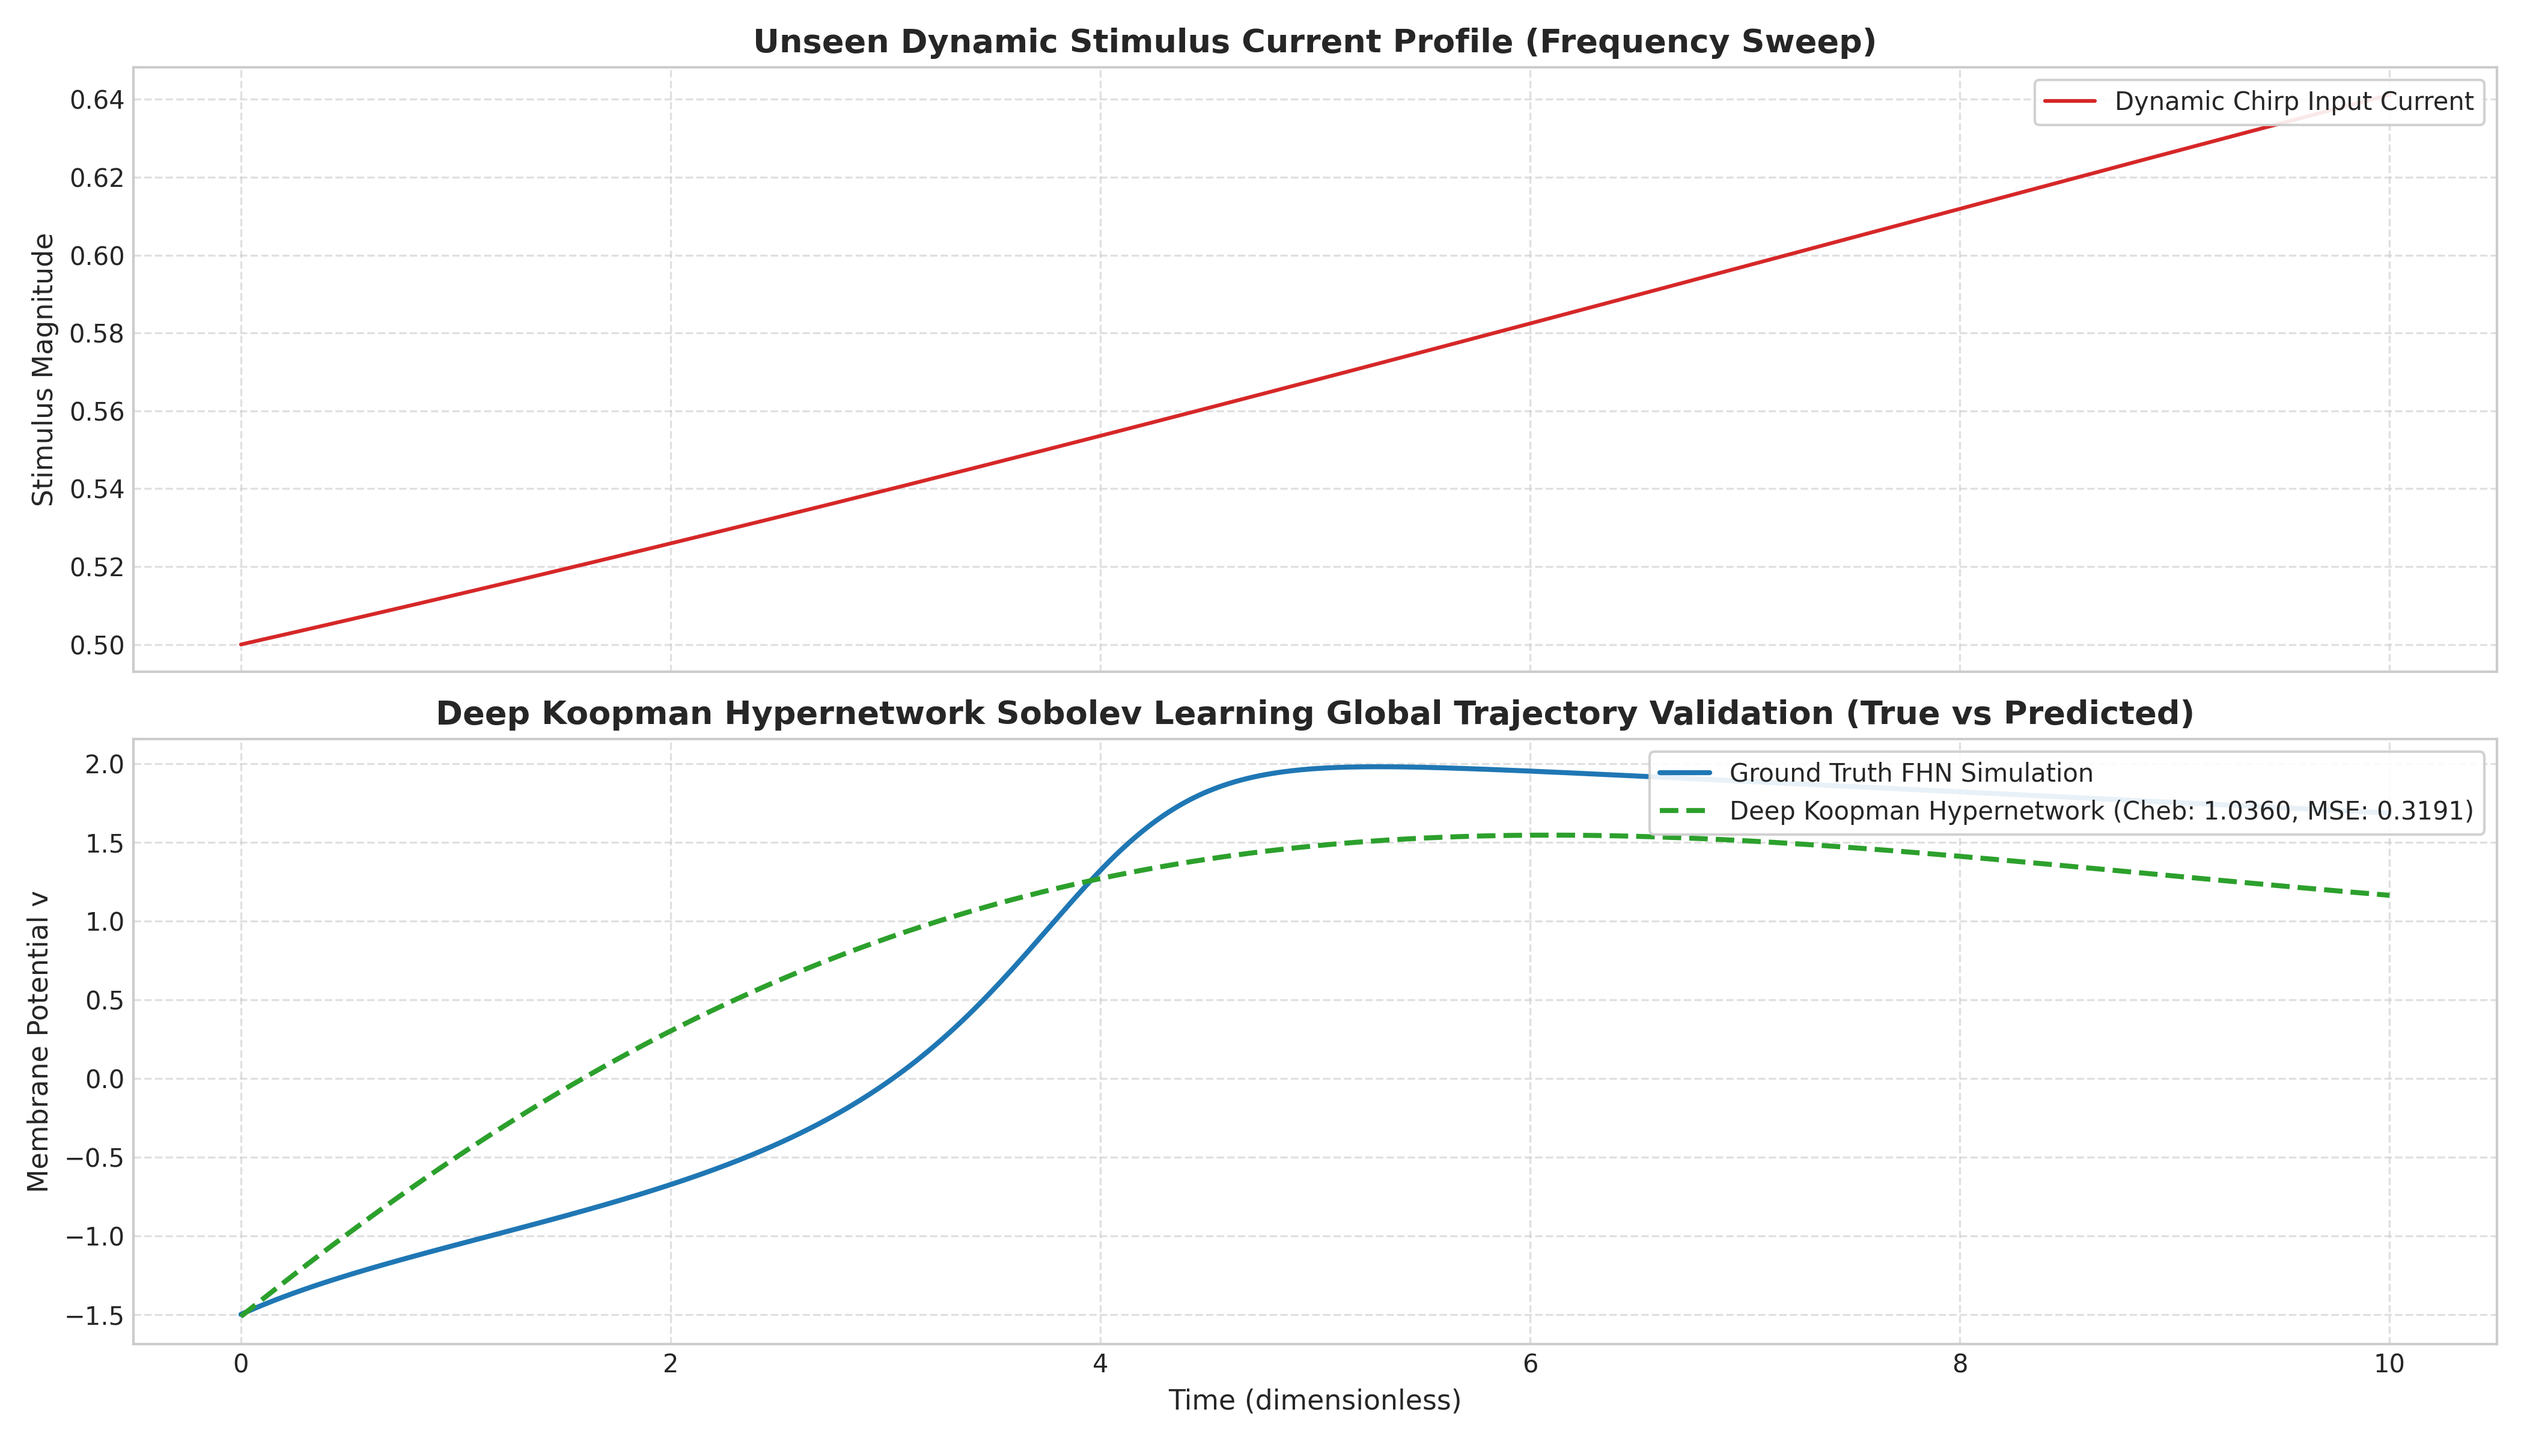
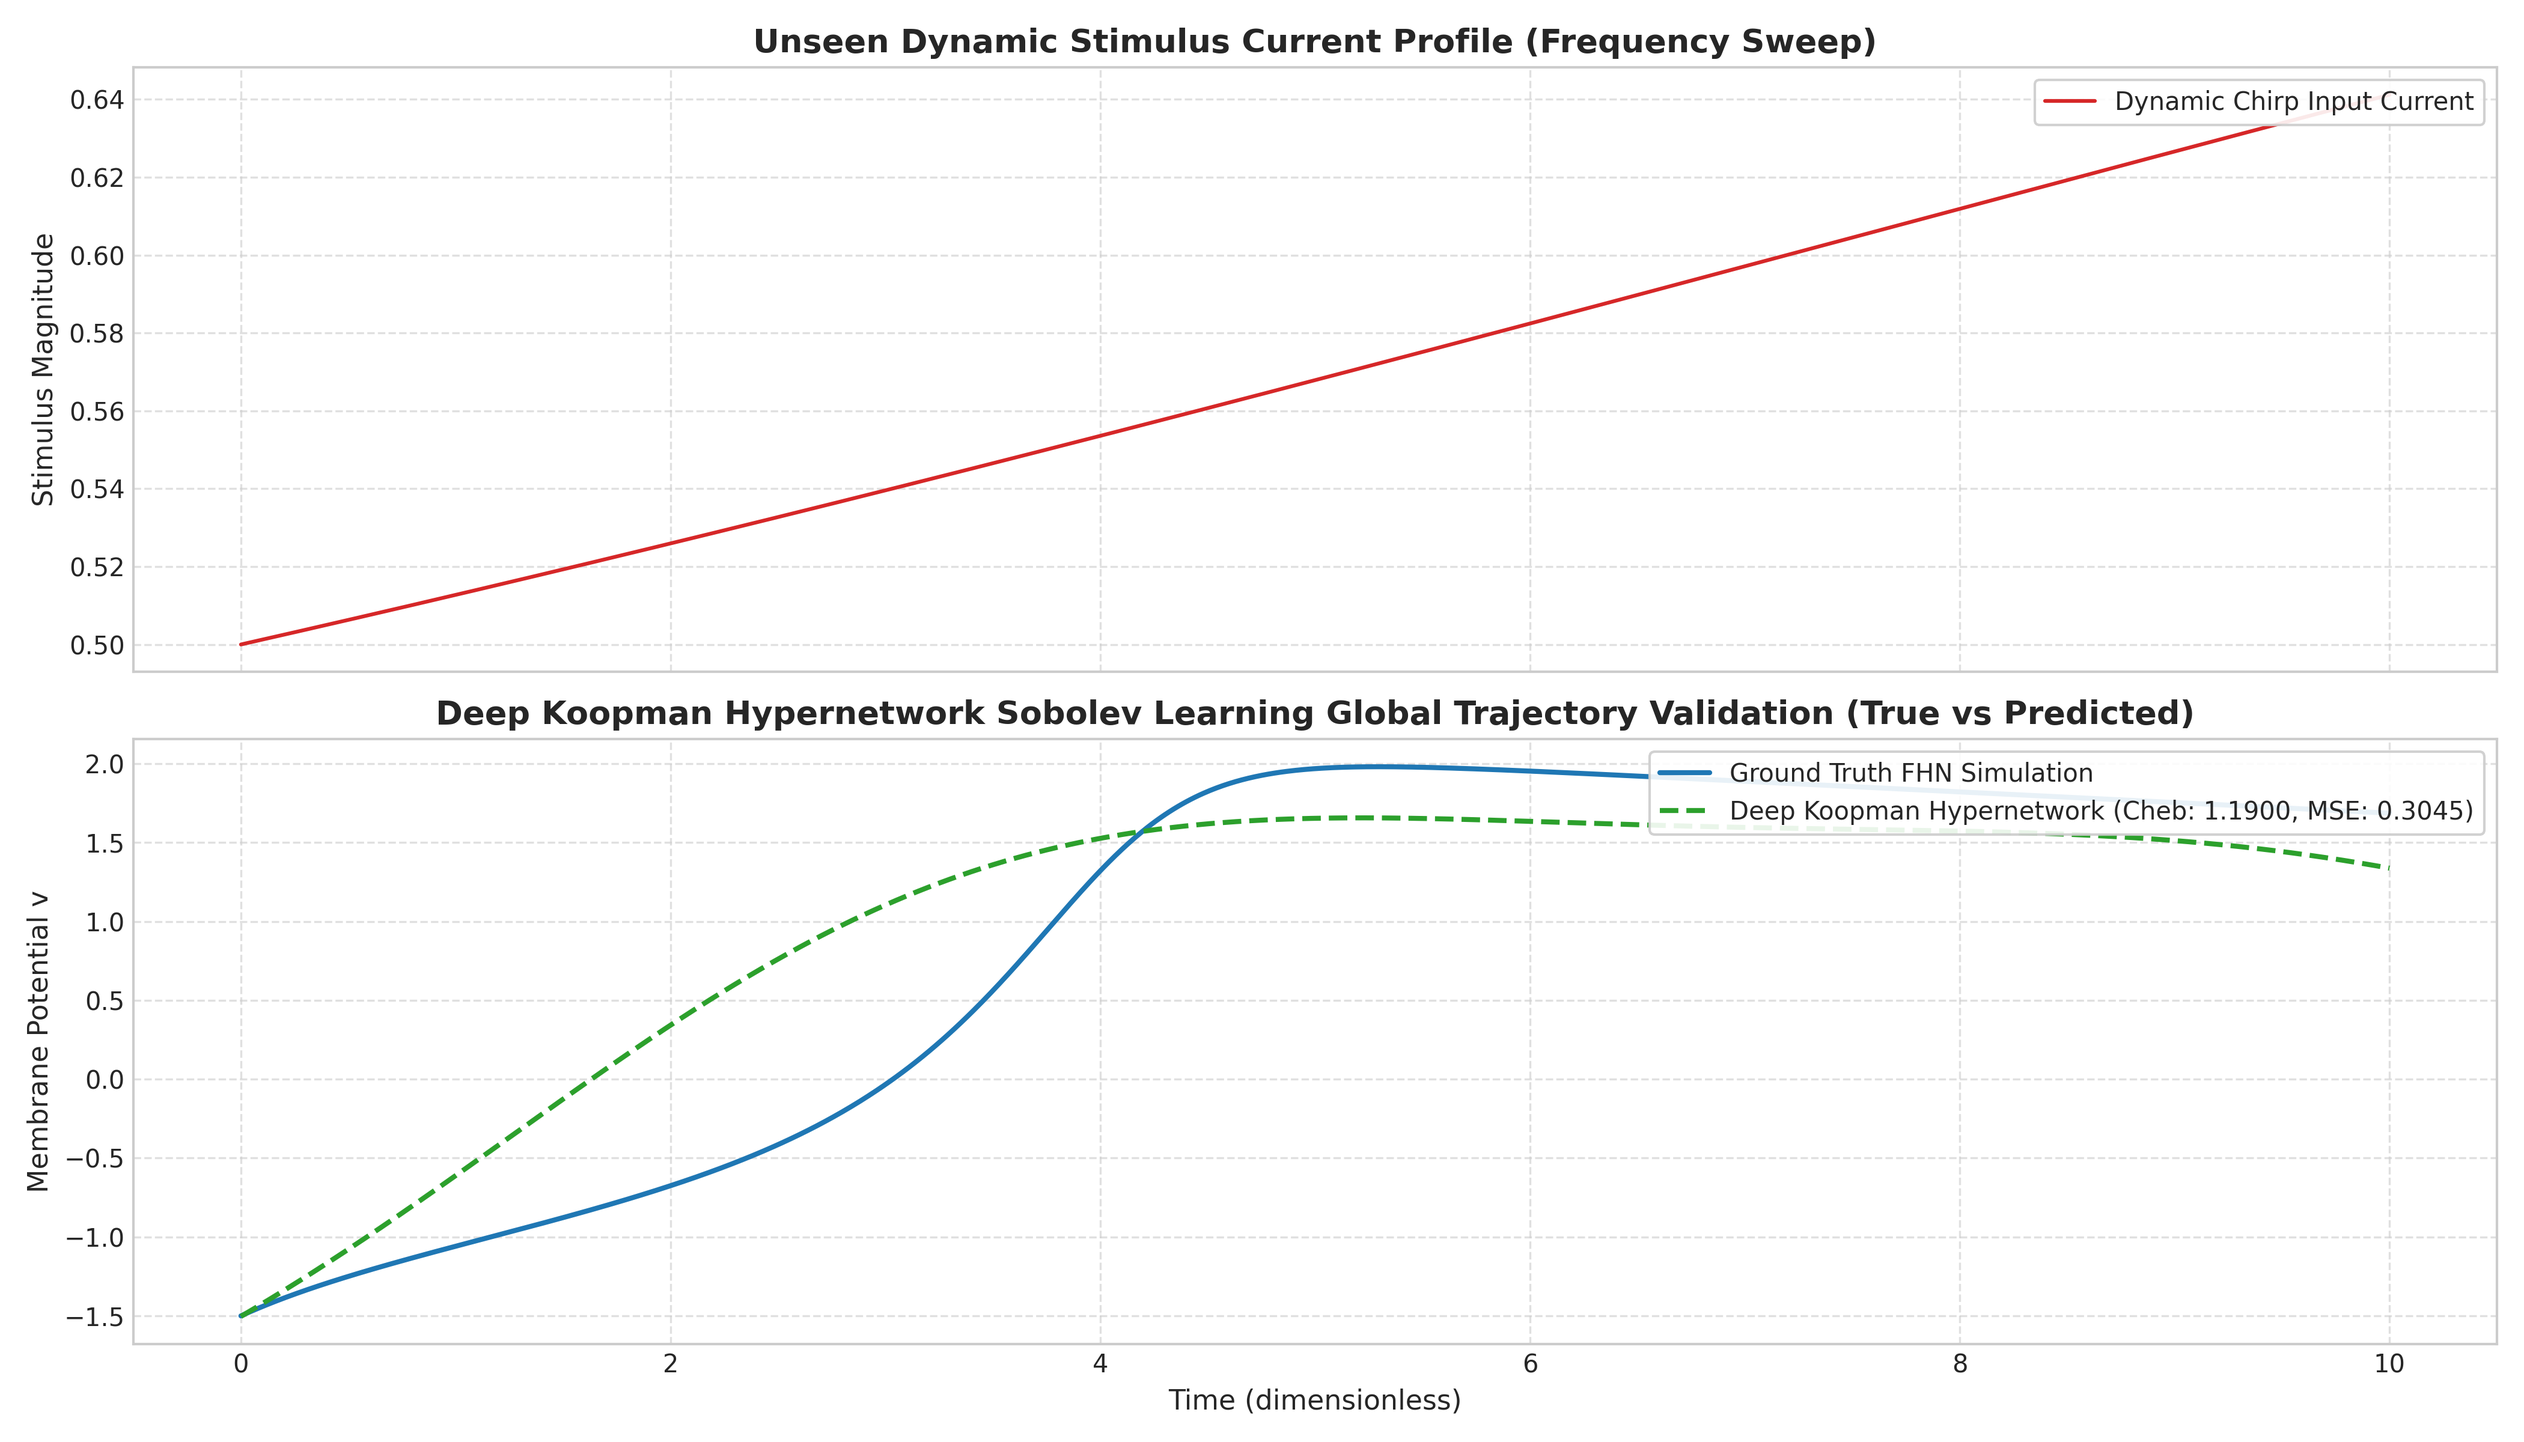
Optimize training loop using jax.lax.scan and RK5 fixed step solver, widen hidden layers to 96, set default m=8

diff --git a/deep_koopman_hypernetwork.py b/deep_koopman_hypernetwork.py
@@ -178,9 +178,9 @@ def compute_losses(params_dict, trajectories, trajectory_dots, current_profiles,
 def init_deep_koopman_params(m, key):
     """Initializes all learnable parameters for the deep Koopman model including the hypernetwork."""
     key1, key2, key3 = jax.random.split(key, 3)
-    params_enc = init_mlp_params([2, 32, 32, 2 * m], key1)
-    params_dec = init_mlp_params([2 * m, 32, 32, 2], key2)
-    params_hyper = init_mlp_params([1, 16, 16, 2 * m], key3)
+    params_enc = init_mlp_params([2, 96, 96, 2 * m], key1)
+    params_dec = init_mlp_params([2 * m, 96, 96, 2], key2)
+    params_hyper = init_mlp_params([1, 96, 96, 2 * m], key3)
     
     b = np.zeros((2 * m,))
     b[:m] = -0.1
@@ -201,7 +201,7 @@ def main():
     
     parser = argparse.ArgumentParser(description="Deep Koopman Learning")
     parser.add_argument('--batch-size', type=int, default=8)
-    parser.add_argument('--latent-m', type=int, default=3)
+    parser.add_argument('--latent-m', type=int, default=8)
     parser.add_argument('--t-max', type=float, default=10.0)
     parser.add_argument('--dt', type=float, default=0.01)
     parser.add_argument('--lr', type=float, default=3e-4)
@@ -233,21 +233,21 @@ def main():
     init_key = jax.random.PRNGKey(42)
     params = init_deep_koopman_params(args.latent_m, init_key)
     
-    def get_loss_weights(step):
-        if step < 1000:
-            return jnp.array([0.0, 2.0, 0.0])
-        elif step < 3000:
-            alpha = (step - 1000) / 2000.0
-            return jnp.array([alpha, 2.0 - alpha, alpha])
-        else:
-            return jnp.array([1.0, 1.0, 1.0])
+    def get_loss_weights_jax(step):
+        step_f = jnp.float32(step)
+        alpha = (step_f - 1000.0) / 2000.0
+        w_rec = jnp.where(step_f < 1000.0, 0.0, jnp.where(step_f < 3000.0, alpha, 1.0))
+        w_lin = jnp.where(step_f < 1000.0, 2.0, jnp.where(step_f < 3000.0, 2.0 - alpha, 1.0))
+        w_pred = jnp.where(step_f < 1000.0, 0.0, jnp.where(step_f < 3000.0, alpha, 1.0))
+        return jnp.stack([w_rec, w_lin, w_pred])
             
     def total_loss_fn(params_dict, trajectories, current_profiles, weights):
         trajectory_dots = compute_fhn_derivatives(trajectories, current_profiles)
         l_rec, l_lin, l_pred = compute_losses(
             params_dict, trajectories, trajectory_dots, current_profiles, args.latent_m, args.n_predict, args.dt, args.loss_power
         )
-        return weights[0] * l_rec + weights[1] * l_lin + weights[2] * l_pred
+        total_loss = weights[0] * l_rec + weights[1] * l_lin + weights[2] * l_pred
+        return total_loss, (l_rec, l_lin, l_pred)
         
     lr_schedule = optax.cosine_decay_schedule(
         init_value=args.lr,
@@ -260,23 +260,39 @@ def main():
     )
     opt_state = optimizer.init(params)
     
-    @jax.jit
-    def train_step(p_vars, state, trajectories, current_profiles, weights):
-        loss, grads = jax.value_and_grad(total_loss_fn)(p_vars, trajectories, current_profiles, weights)
+    def scan_body(carry, step):
+        p_vars, state = carry
+        w_step = get_loss_weights_jax(step)
+        (loss, aux), grads = jax.value_and_grad(total_loss_fn, has_aux=True)(p_vars, ys, u_data_batch, w_step)
         updates, state = optimizer.update(grads, state, p_vars)
         p_vars = optax.apply_updates(p_vars, updates)
-        return p_vars, state, loss
         
-    print(f"Starting Deep Koopman Sobolev training ({args.steps} epochs)...")
-    for step in range(args.steps):
-        w_step = get_loss_weights(step)
-        params, opt_state, loss_val = train_step(params, opt_state, ys, u_data_batch, w_step)
-        if step % max(1, args.steps // 10) == 0 or step == args.steps - 1:
-            trajectory_dots = compute_fhn_derivatives(ys, u_data_batch)
-            l_rec, l_lin, l_pred = compute_losses(
-                params, ys, trajectory_dots, u_data_batch, args.latent_m, args.n_predict, args.dt, args.loss_power
+        l_rec, l_lin, l_pred = aux
+        print_interval = max(1, args.steps // 10)
+        
+        def print_cond(arg):
+            step_val, loss_val, rec_val, lin_val, pred_val = arg
+            jax.debug.print(
+                "Epoch {step:03d} | Total Loss: {loss:.6f} | Recon: {recon:.6f} | Lin: {lin:.6f} | Pred: {pred:.6f}",
+                step=step_val,
+                loss=loss_val,
+                recon=rec_val,
+                lin=lin_val,
+                pred=pred_val
             )
-            print(f"Epoch {step:03d} | Total Loss: {float(loss_val):.6f} | Recon: {float(l_rec):.6f} | Lin: {float(l_lin):.6f} | Pred: {float(l_pred):.6f}")
+            
+        jax.lax.cond(
+            (step % print_interval == 0) | (step == args.steps - 1),
+            print_cond,
+            lambda arg: None,
+            (step, loss, l_rec, l_lin, l_pred)
+        )
+        
+        return (p_vars, state), loss
+        
+    print(f"Starting Deep Koopman Sobolev training ({args.steps} epochs on GPU)...")
+    steps_arr = jnp.arange(args.steps)
+    (params, opt_state), _ = jax.lax.scan(scan_body, (params, opt_state), steps_arr)
             
     print("\nTraining completed successfully! Running validation on unseen dynamic chirp current...")
     y0_val = jnp.array([-1.5, -0.5])

diff --git a/simulation.py b/simulation.py
@@ -5,31 +5,28 @@ import diffrax
 import optax
 from dynamics import fhn_vector_field
 
-def simulate_fhn(y0, t_span, a=0.7, b=0.8, tau=12.5, I_type='constant', I_val=0.5, rtol=1e-6, atol=1e-6):
-    """Simulates the FHN model using the Diffrax Tsit5 adaptive solver."""
+def simulate_fhn(y0, t_span, a=0.7, b=0.8, tau=12.5, I_type='constant', I_val=0.5):
+    """Simulates the FHN model using the Diffrax Dopri5 (RK5) fixed-step solver."""
     term = diffrax.ODETerm(fhn_vector_field)
-    solver = diffrax.Tsit5()
+    solver = diffrax.Dopri5()
     saveat = diffrax.SaveAt(ts=t_span)
-    stepsize_controller = diffrax.PIDController(rtol=rtol, atol=atol)
     
     sol = diffrax.diffeqsolve(
         term,
         solver,
         t0=t_span[0],
         t1=t_span[-1],
-        dt0=0.05,
+        dt0=t_span[1] - t_span[0],
         y0=jnp.asarray(y0, dtype=jnp.float32),
         args=(a, b, tau, I_type, I_val),
-        saveat=saveat,
-        stepsize_controller=stepsize_controller,
-        max_steps=10000
+        saveat=saveat
     )
     return sol.ys
 
-def simulate_fhn_batch(y0_batch, t_span, I_type, I_val_batch, a=0.7, b=0.8, tau=12.5, rtol=1e-6, atol=1e-6):
+def simulate_fhn_batch(y0_batch, t_span, I_type, I_val_batch, a=0.7, b=0.8, tau=12.5):
     """Simulates a batch of FHN trajectories in parallel using jax.vmap."""
     vmapped_solve = jax.vmap(
-        lambda y0, I_val: simulate_fhn(y0, t_span, a, b, tau, I_type, I_val, rtol, atol),
+        lambda y0, I_val: simulate_fhn(y0, t_span, a, b, tau, I_type, I_val),
         in_axes=(0, 0)
     )
     return vmapped_solve(y0_batch, I_val_batch)
@@ -47,22 +44,18 @@ def fit_fhn_parameters(y0, t_span, noisy_target, I_type, I_val, lr=0.02, steps=1
     def loss_fn(params, y0, t_span, target, I_type, I_val):
         a, b, tau = jnp.abs(params)
         term = diffrax.ODETerm(fhn_vector_field)
-        solver = diffrax.Tsit5()
+        solver = diffrax.Dopri5()
         saveat = diffrax.SaveAt(ts=t_span)
-        stepsize_controller = diffrax.PIDController(rtol=1e-4, atol=1e-4)
         
         sol = diffrax.diffeqsolve(
             term,
             solver,
             t0=t_span[0],
             t1=t_span[-1],
-            dt0=0.1,
+            dt0=t_span[1] - t_span[0],
             y0=y0,
             args=(a, b, tau, I_type, I_val),
-            saveat=saveat,
-            stepsize_controller=stepsize_controller,
-            adjoint=diffrax.RecursiveCheckpointAdjoint(),
-            max_steps=5000
+            saveat=saveat
         )
         return jnp.mean((sol.ys - target) ** 2)
 
